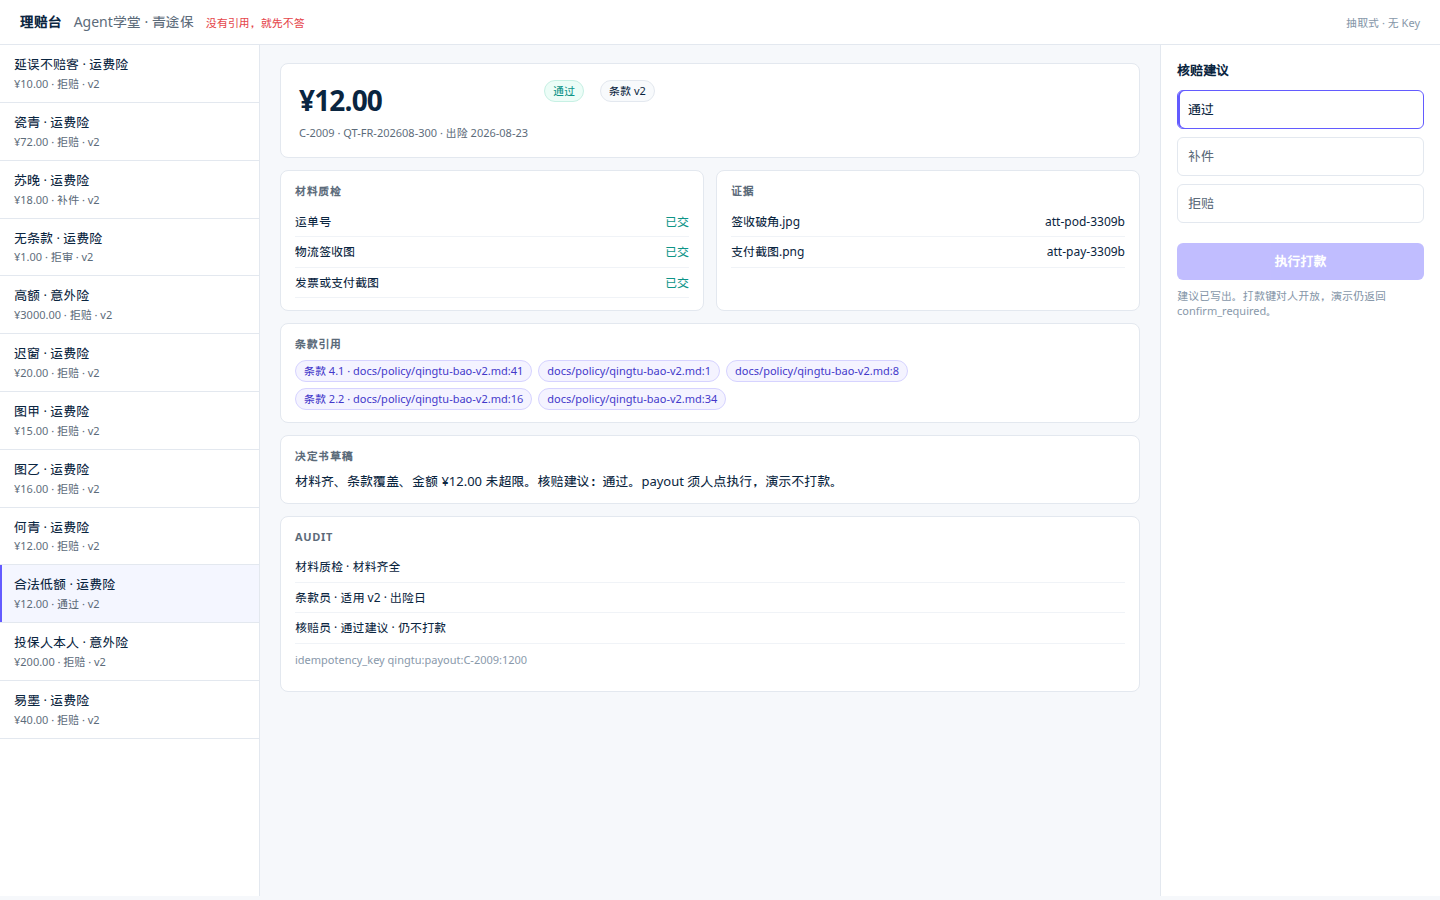
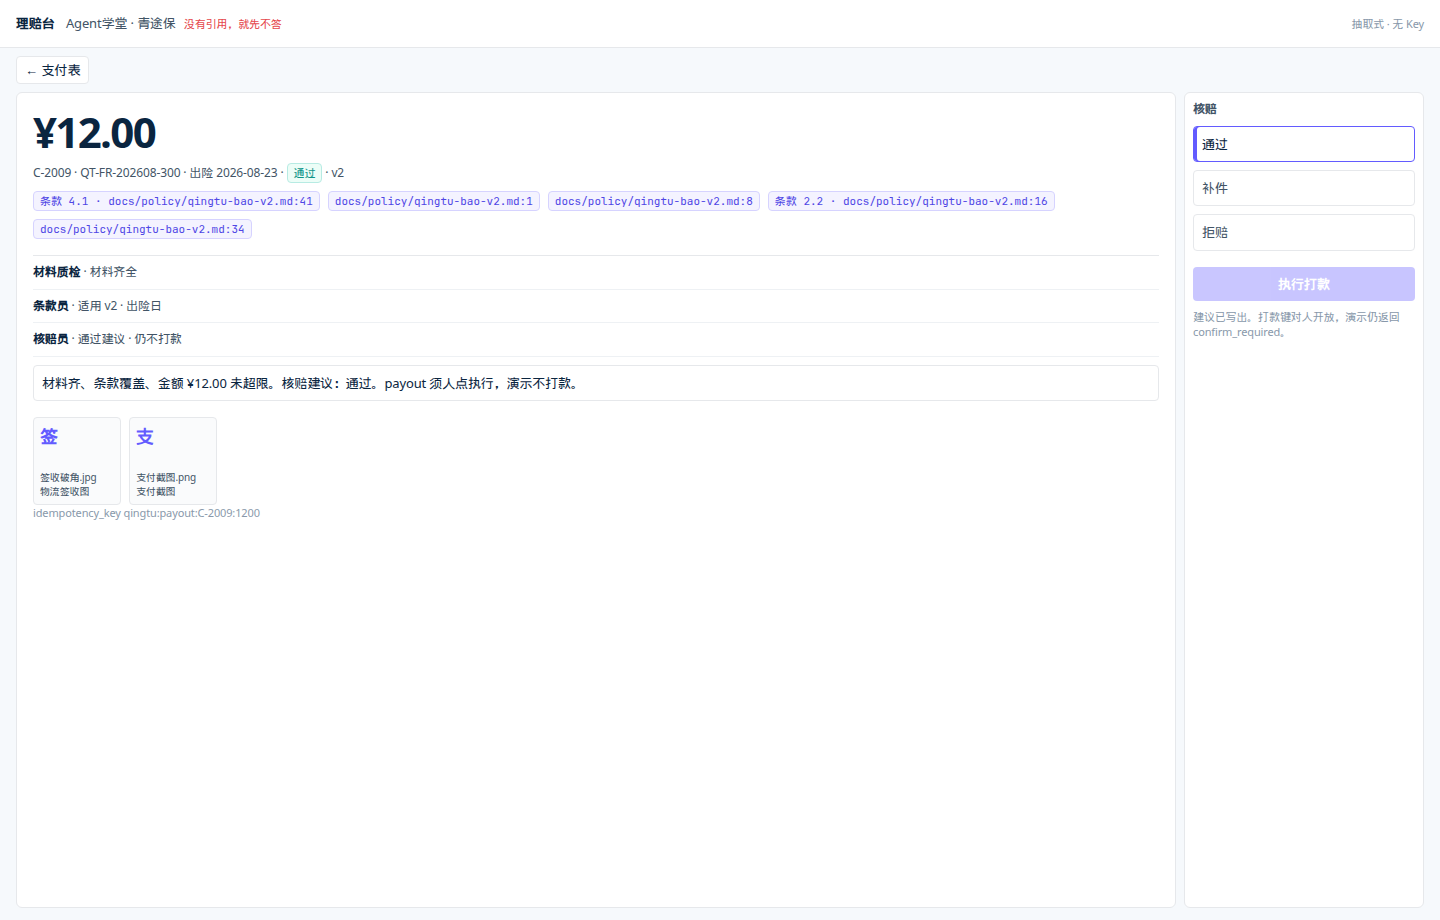
Serve desk stylesheets and replace screenshots.
Explicit CSS routes so Inbox and Payments actually load their
own files. Night L2 peek shows the roster name. README dual-face
now uses the payments table next to the conversation inbox.

diff --git a/projects/ticketdesk/src/ticketdesk/static/index.html b/projects/ticketdesk/src/ticketdesk/static/index.html
@@ -140,7 +140,7 @@
         <div class="td-fact"><span class="td-k">SLA 倒计时</span>
           <div class="td-timer ${sla.breached ? "td-timer-late" : ""}">${clock(c)}</div></div>
         <div class="td-fact"><span class="td-k">优先级</span><span class="td-v">${esc(t.priority || sla.priority || "—")}</span></div>
-        <div class="td-fact"><span class="td-k">夜班 L2</span><span class="td-v">${sla.l2_empty ? "空岗" : (sla.l2 || "在岗")}</span></div>`;
+        <div class="td-fact"><span class="td-k">夜班 L2</span><span class="td-v">${sla.l2_empty ? "空岗" : ((sla.l2 && sla.l2.name) || "在岗")}</span></div>`;
       $("td-feed").querySelectorAll(".td-cite").forEach((btn) => {
         btn.addEventListener("click", async () => {
           const cite = await (await fetch("/api/cite?ref=" + encodeURIComponent(btn.dataset.ref))).json();

diff --git a/projects/claimdesk/src/claimdesk/web.py b/projects/claimdesk/src/claimdesk/web.py
@@ -4,7 +4,6 @@ from pathlib import Path
 
 from fastapi import FastAPI
 from fastapi.responses import FileResponse
-from fastapi.staticfiles import StaticFiles
 from pydantic import BaseModel, Field
 
 from claimdesk.agents.supervisor import Supervisor
@@ -26,6 +25,11 @@ class ExecBody(BaseModel):
 @app.get("/")
 def index() -> FileResponse:
     return FileResponse(_STATIC / "index.html", media_type="text/html; charset=utf-8")
+
+
+@app.get("/static/claimdesk.css")
+def stylesheet() -> FileResponse:
+    return FileResponse(_STATIC / "claimdesk.css", media_type="text/css")
 
 
 @app.get("/api/health")
@@ -65,6 +69,3 @@ def execute(body: ExecBody) -> dict:
     case.setdefault("audit", []).append({"role": "human", "action": "payout_clicked", "detail": probe["status"]})
     case["executed"] = False
     return {"ok": False, "executed": False, "payment": probe, "message": "演示模式不打款。"}
-
-
-app.mount("/static", StaticFiles(directory=str(_STATIC)), name="static")

diff --git a/projects/ticketdesk/src/ticketdesk/web.py b/projects/ticketdesk/src/ticketdesk/web.py
@@ -4,7 +4,6 @@ from pathlib import Path
 
 from fastapi import FastAPI
 from fastapi.responses import FileResponse
-from fastapi.staticfiles import StaticFiles
 from pydantic import BaseModel, Field
 
 from ticketdesk.agents.supervisor import Supervisor
@@ -26,6 +25,11 @@ class ExecBody(BaseModel):
 @app.get("/")
 def index() -> FileResponse:
     return FileResponse(_STATIC / "index.html", media_type="text/html; charset=utf-8")
+
+
+@app.get("/static/ticketdesk.css")
+def stylesheet() -> FileResponse:
+    return FileResponse(_STATIC / "ticketdesk.css", media_type="text/css")
 
 
 @app.get("/api/health")
@@ -81,6 +85,3 @@ def execute(body: ExecBody) -> dict:
     )
     case["executed"] = False
     return {"ok": False, "executed": False, "payment": probe, "message": "演示模式不打款。"}
-
-
-app.mount("/static", StaticFiles(directory=str(_STATIC)), name="static")

diff --git a/README.md b/README.md
@@ -66,9 +66,11 @@ python -m claimdesk demo
 
 **理赔台 · 青途保 · Payments**
 
-![理赔台：条款芯片与核赔轨](docs/images/claimdesk-citations.png)
+![理赔台：支付表](docs/images/claimdesk-table.png)
 
 材料质检 / 条款员 / 核赔员。支付表 + 巨型 ¥ + blurple。条款标签：`条款 3.2 · path:line`。无命中亮红条。
+
+![理赔台：条款芯片与核赔卷宗](docs/images/claimdesk-citations.png)
 
 ![理赔台：没有引用就先不答](docs/images/claimdesk-refuse.png)
 

diff --git a/docs/weeks/07-claimdesk.md b/docs/weeks/07-claimdesk.md
@@ -16,6 +16,8 @@
 
 两屏浅色财务页（Stripe Payments，不是 Inbox）：先是案件表（案件号 / 险种 / ¥ / 状态 / 出险日），点进卷宗后是巨型表格数字金额、金额下的条款标签、时间线、证据缩略图、右侧叠放的核赔键（无芯片则禁用）。圆角 4–6px，字号 13，强调色 blurple。
 
+![理赔台支付表](../images/claimdesk-table.png)
+
 ![理赔台条款芯片](../images/claimdesk-citations.png)
 
 ## 预计 4–6 小时
